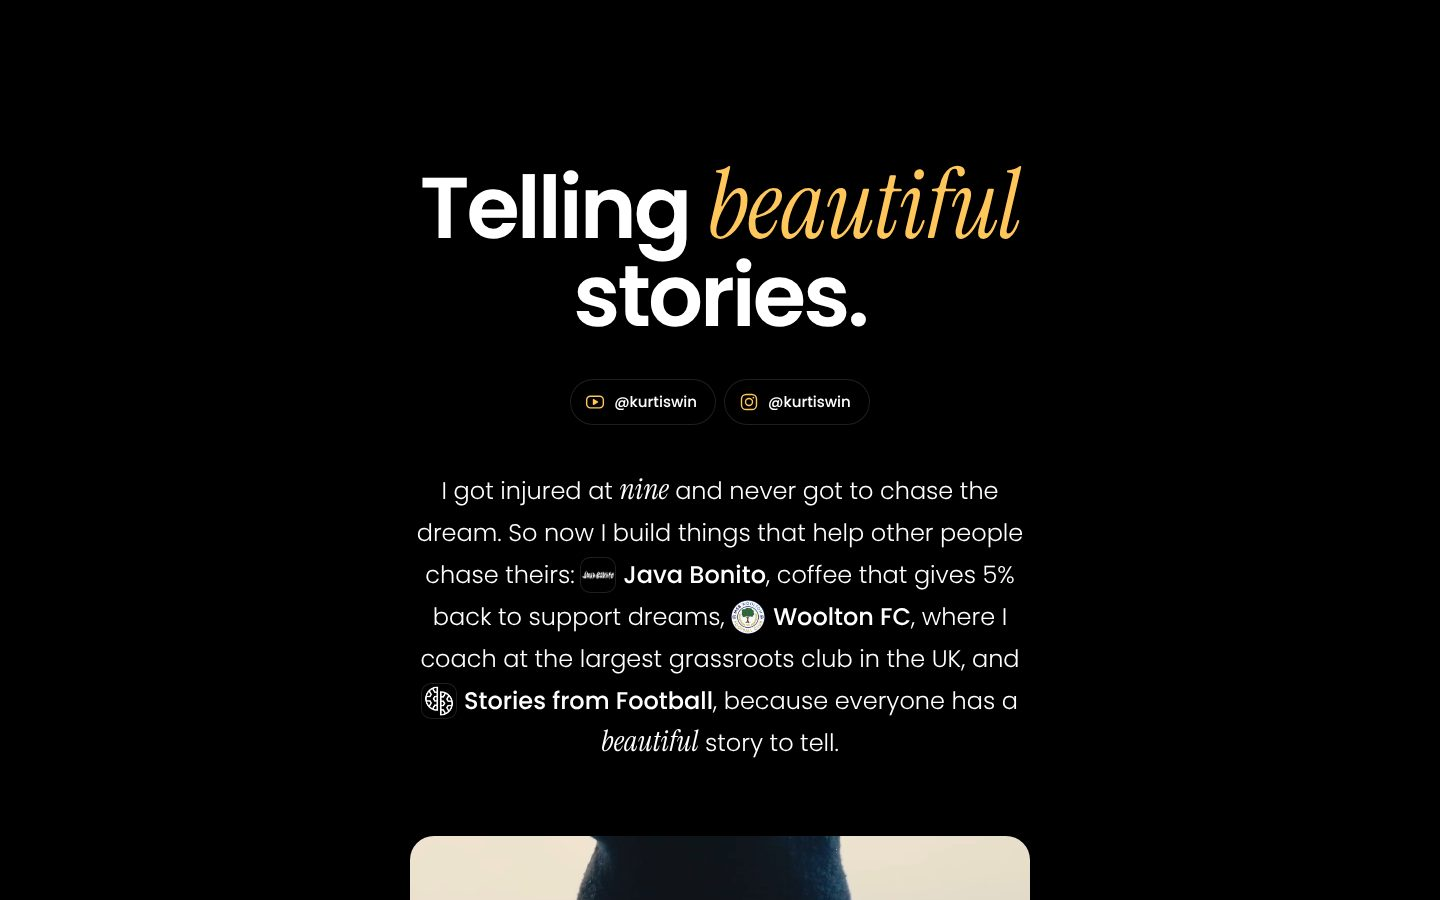
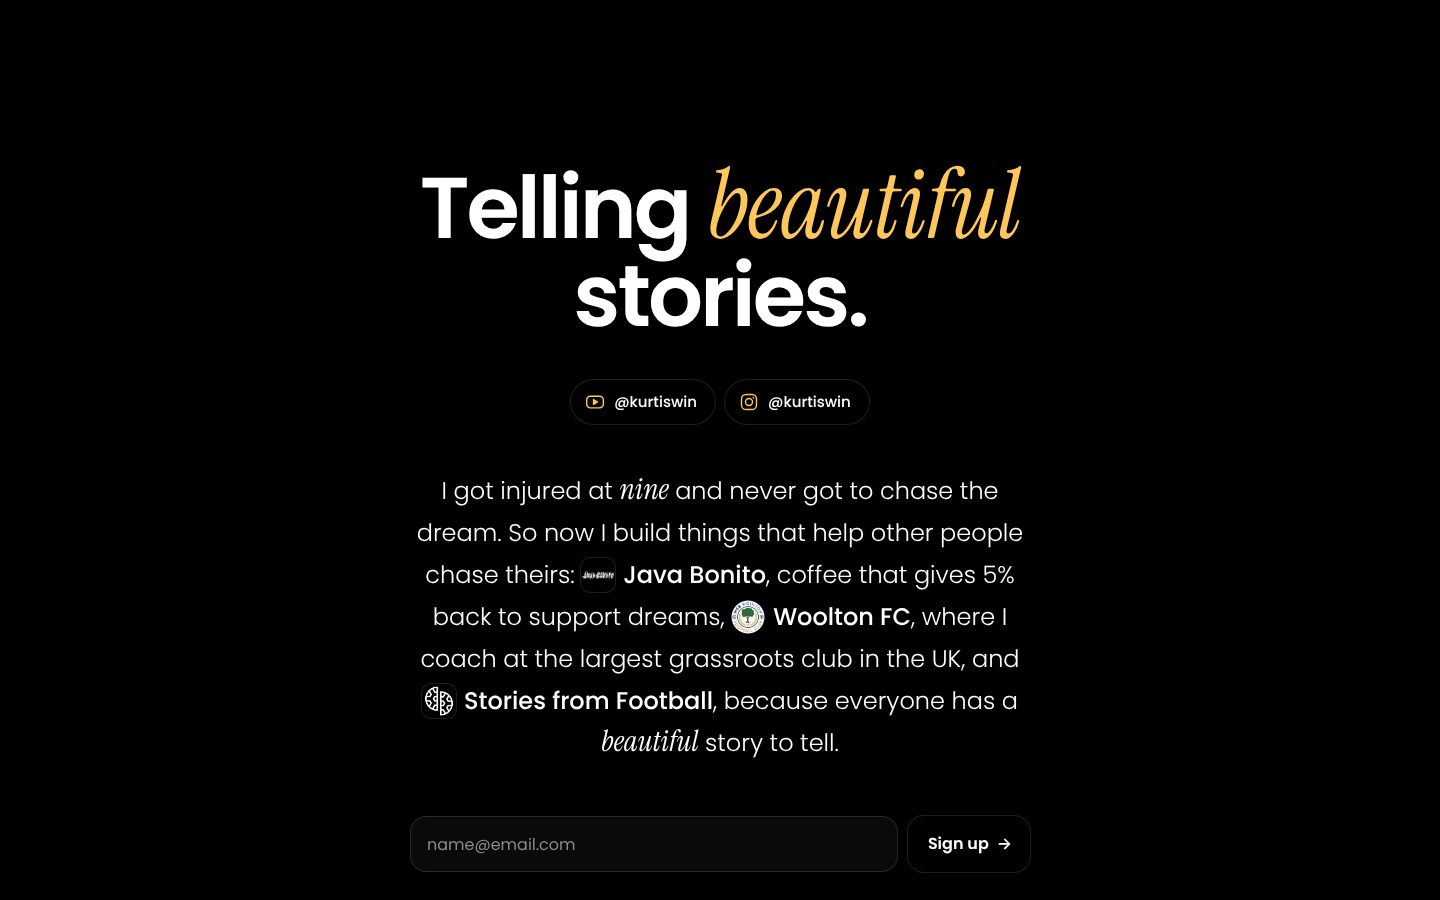
Trial: email sign-up above the video
Claude-Session: https://claude.ai/code/session_01YWeD3rSu7rVPaxhd9cXvfE

Changed region(s): [[0.2812, 0.9022, 0.7188, 1.0]]

diff --git a/kurtis-site/design-board/site.html b/kurtis-site/design-board/site.html
@@ -49,12 +49,12 @@ h1 em{font-family:var(--serif);font-weight:400;font-style:italic;letter-spacing:
 @media (prefers-reduced-motion:reduce){.chip img{transition:none}.chip:hover img,.chip:focus-visible img{transform:none}}
 
 /* Film + signup card */
-.card{width:100%;margin-top:60px;text-align:left}
-@media (min-width:900px){.card{margin-top:72px}}
+.card{width:100%;margin-top:46px;text-align:left}
+@media (min-width:900px){.card{margin-top:52px}}
 .film{position:relative;aspect-ratio:4/3;width:100%;margin:0;border-radius:24px;background:#0a0a0a;overflow:hidden}
 .film video{position:absolute;inset:0;width:100%;height:100%;object-fit:cover;display:block}
 
-.signup{padding:16px 0 0}
+.signup{padding:0 0 36px}
 .eyebrow{margin:0 0 18px;text-align:center;font-size:12px;font-weight:500;letter-spacing:.24em;text-transform:uppercase;color:var(--muted)}
 .sr{position:absolute;width:1px;height:1px;overflow:hidden;clip:rect(0 0 0 0);white-space:nowrap}
 .expect{list-style:none;margin:0;padding:0 0 18px;display:flex;gap:16px 26px;flex-wrap:wrap;justify-content:center;border-bottom:1px solid var(--line)}
@@ -101,9 +101,6 @@ footer a{text-decoration:none}
   <p class="story rise d3">I got injured at <i>nine</i> and never got to chase the dream. So now I build things that help other people chase theirs: <a class="chip c-jb" href="https://www.javabonito.co.uk" target="_blank" rel="noopener"><img src="assets/icon-jb.png" alt="">Java&nbsp;Bonito</a>, coffee that gives 5% back to support dreams, <a class="chip c-wfc" href="https://www.wooltonfc.co.uk" target="_blank" rel="noopener"><img class="round" src="assets/icon-wfc.png" alt="">Woolton&nbsp;FC</a>, where I coach at the largest grassroots club in the UK, and <a class="chip c-sff" href="https://www.storiesfromfootball.co.uk" target="_blank" rel="noopener"><img src="assets/icon-sff.png" alt="">Stories&nbsp;from&nbsp;Football</a>, because everyone has a <i>beautiful</i> story to tell.</p>
 
   <section class="card rise d4" id="join" aria-labelledby="join-h">
-    <div class="film">
-      <video src="assets/film.mp4" poster="assets/film-poster.jpg" autoplay muted loop playsinline preload="metadata" aria-label="Short film: making coffee and coaching at Woolton FC"></video>
-    </div>
     <div class="signup">
       <h2 class="sr" id="join-h">Join the club</h2>
       <form data-kit>
@@ -112,6 +109,9 @@ footer a{text-decoration:none}
         <button type="submit">Sign up <span class="arr" aria-hidden="true">→</span></button>
       </form>
       <p class="ok" hidden>You're in. Check your inbox to confirm.</p>
+    </div>
+    <div class="film">
+      <video src="assets/film.mp4" poster="assets/film-poster.jpg" autoplay muted loop playsinline preload="metadata" aria-label="Short film: making coffee and coaching at Woolton FC"></video>
     </div>
   </section>
 

diff --git a/kurtis-site/BRIEF.md b/kurtis-site/BRIEF.md
@@ -53,3 +53,5 @@
 
 - 2026-11-06: Single 620px column: headline, story, video and email form share the same edges; card frame removed.
 
+- 2026-11-06: Trial: email sign-up moved above the video (between story and video). Skill not updated until confirmed.
+
